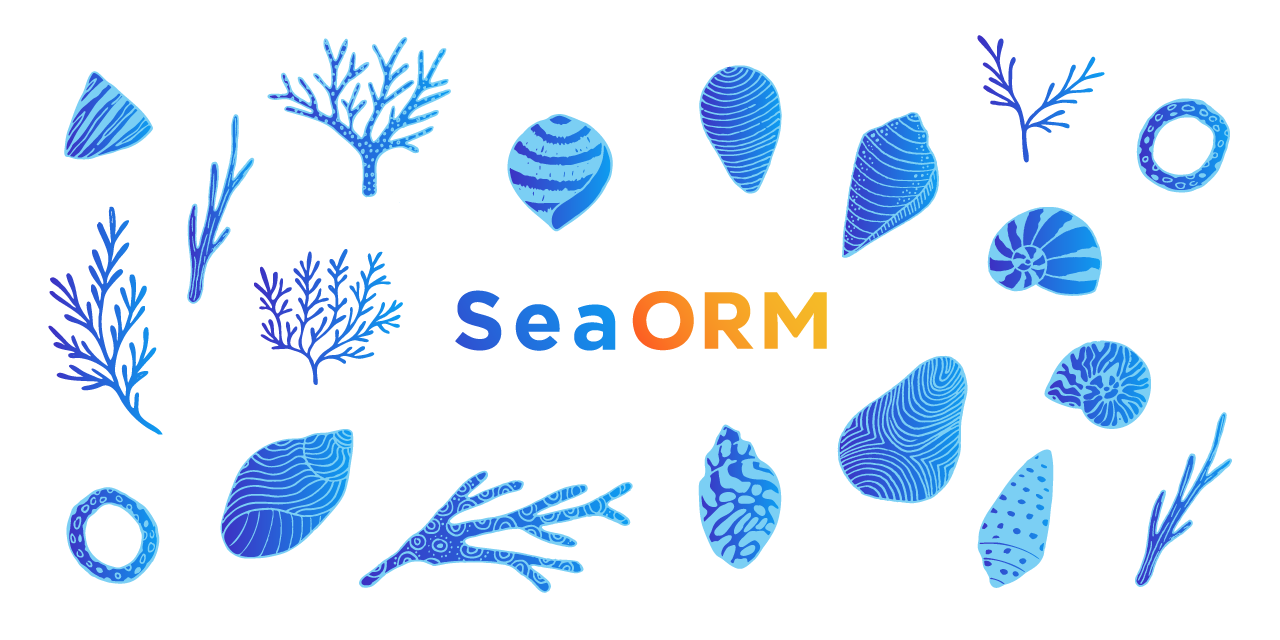
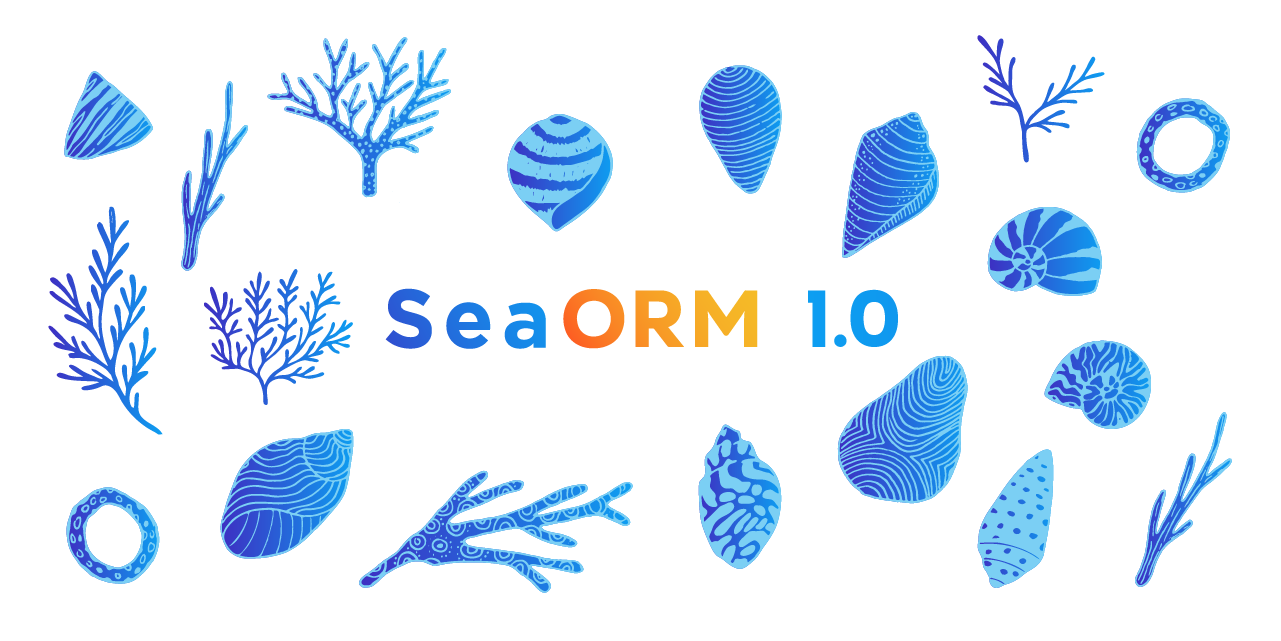
[SeaORM] 1.0

diff --git a/SeaORM/docusaurus.config.js b/SeaORM/docusaurus.config.js
@@ -163,7 +163,7 @@ module.exports = {
     },
     announcementBar: {
       id: 'sea-orm-bar',
-      content: '🐚 <a href="https://www.sea-ql.org/blog/2023-08-12-announcing-seaorm-0.12/">SeaORM 0.12 is released</a>! If you like SeaORM, please give us a <a target="_blank" href="https://github.com/SeaQL/sea-orm">⭐ on GitHub</a> and complete our <a target="_blank" href="https://www.sea-ql.org/community-survey">Community Survey</a>! 🦀',
+      content: '🐚 <a href="https://www.sea-ql.org/blog/2024-08-04-sea-orm-1.0/">SeaORM 1.0 is released</a>! If you like SeaORM, please give us a <a target="_blank" href="https://github.com/SeaQL/sea-orm">⭐ on GitHub</a> and complete our <a target="_blank" href="https://www.sea-ql.org/community-survey">Community Survey</a>! 🦀',
       isCloseable: false,
     },
   },
